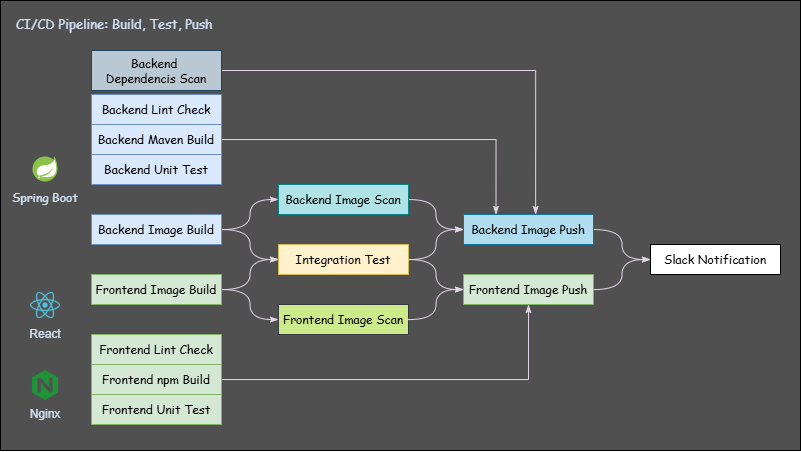
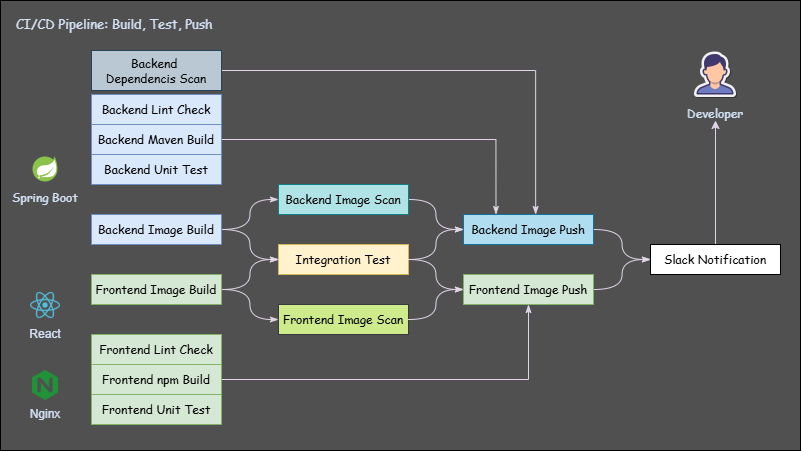
README update: cd-build-test-push-in-actions add

diff --git a/README.md b/README.md
@@ -80,9 +80,17 @@ This repo uses CI/CD pipelines to validate application changes, build container 
 | Image delivery         | Docker build, image scan, Docker push                                                      | Build trusted application images, scan for vulnerabilities, and publish images to the registry |
 | Release version update | Human approval, image retag, commit updated image tag to Platform Repo Kustomize manifests | Control release version handoff while keeping deployment managed by GitOps                     |
 
-- **Build, Test, Push**:
+---
+
+- **Build, Test, Push Pipeline Diagram**:
 
   ![cd-build-test](./docs/assets/cd-build-test.png)
+
+- **Build, Test, Push Pipeline In Actions**:
+
+  ![cd-build-test](./docs/assets/cd-build-test-in-action.gif)
+
+---
 
 - **Release**:
 